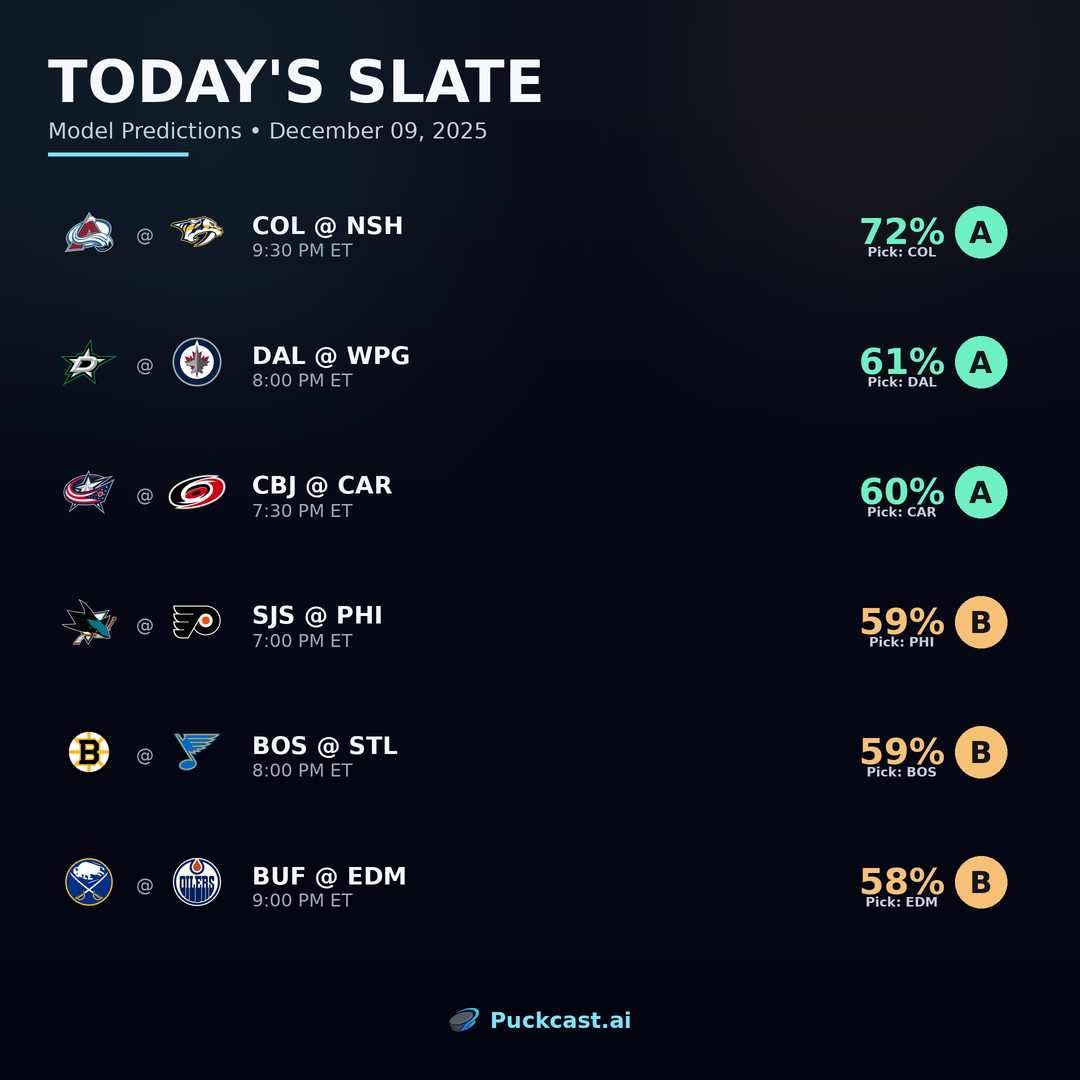
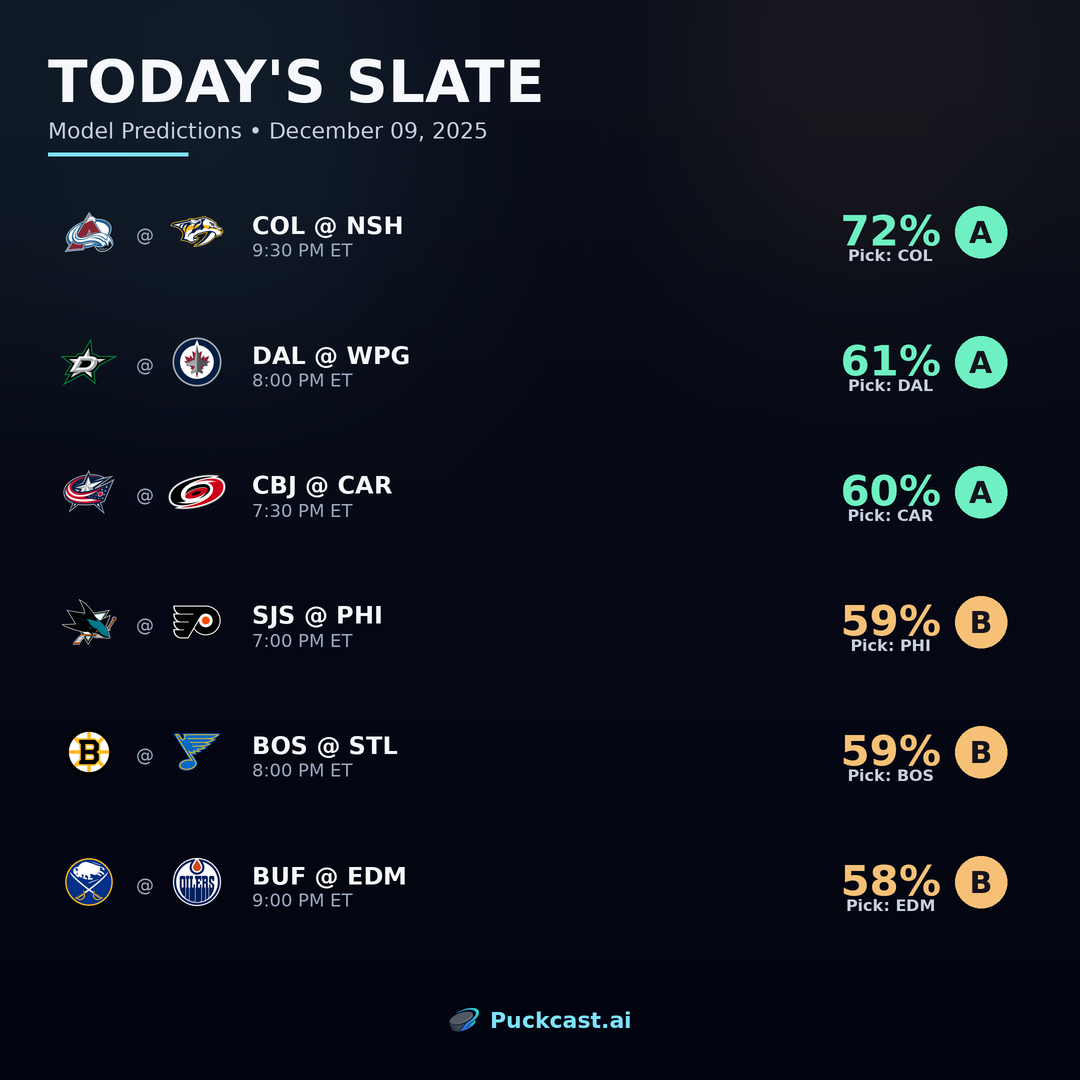
fix: increase pick info size on Today's Slate
- Probability font: S(36) -> S(42)
- Pick label font: S(13) -> S(16)
- Adjusted spacing for better readability

diff --git a/graphics/templates/todays_slate.py b/graphics/templates/todays_slate.py
@@ -135,22 +135,22 @@ def draw_game_row(
         font=grade_font,
     )
 
-    # Win probability - pulled closer to matchup
-    prob_font = get_font(S(36), bold=True)
+    # Win probability - larger and more prominent
+    prob_font = get_font(S(42), bold=True)
     prob_text = f"{pick_prob * 100:.0f}%"
     prob_bbox = draw.textbbox((0, 0), prob_text, font=prob_font)
     prob_w = prob_bbox[2] - prob_bbox[0]
     prob_h = prob_bbox[3] - prob_bbox[1]
-    prob_x = badge_x - prob_w - S(10)
+    prob_x = badge_x - prob_w - S(14)
 
-    draw.text((prob_x, row_center_y - prob_h // 2 - S(8)), prob_text, fill=grade_color, font=prob_font)
+    draw.text((prob_x, row_center_y - prob_h // 2 - S(10)), prob_text, fill=grade_color, font=prob_font)
 
-    # Pick label
-    pick_font = get_font(S(13), bold=True)
+    # Pick label - larger
+    pick_font = get_font(S(16), bold=True)
     pick_label = f"Pick: {pick_abbrev}"
     pick_bbox = draw.textbbox((0, 0), pick_label, font=pick_font)
     pick_w = pick_bbox[2] - pick_bbox[0]
-    draw.text((prob_x + (prob_w - pick_w) // 2, row_center_y + S(12)), pick_label, fill=hex_to_rgb(PuckcastColors.TEXT_SECONDARY), font=pick_font)
+    draw.text((prob_x + (prob_w - pick_w) // 2, row_center_y + S(14)), pick_label, fill=hex_to_rgb(PuckcastColors.TEXT_SECONDARY), font=pick_font)
 
 
 def generate_slate_image(games: List[Dict], date_str: str, page: int = 1) -> Image.Image:
